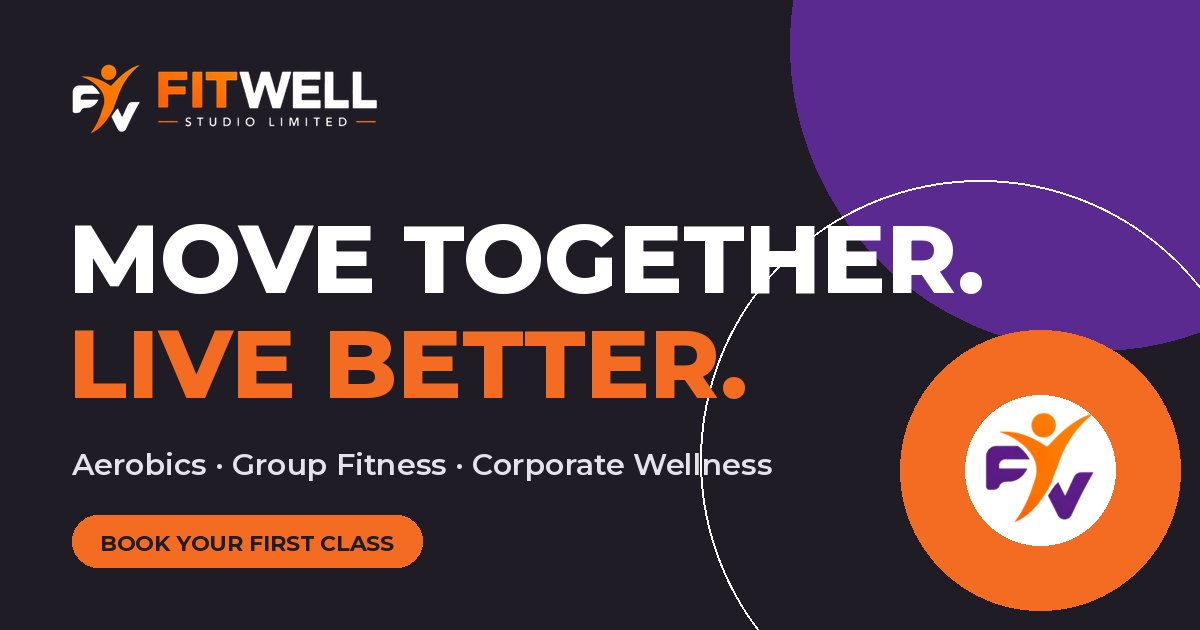
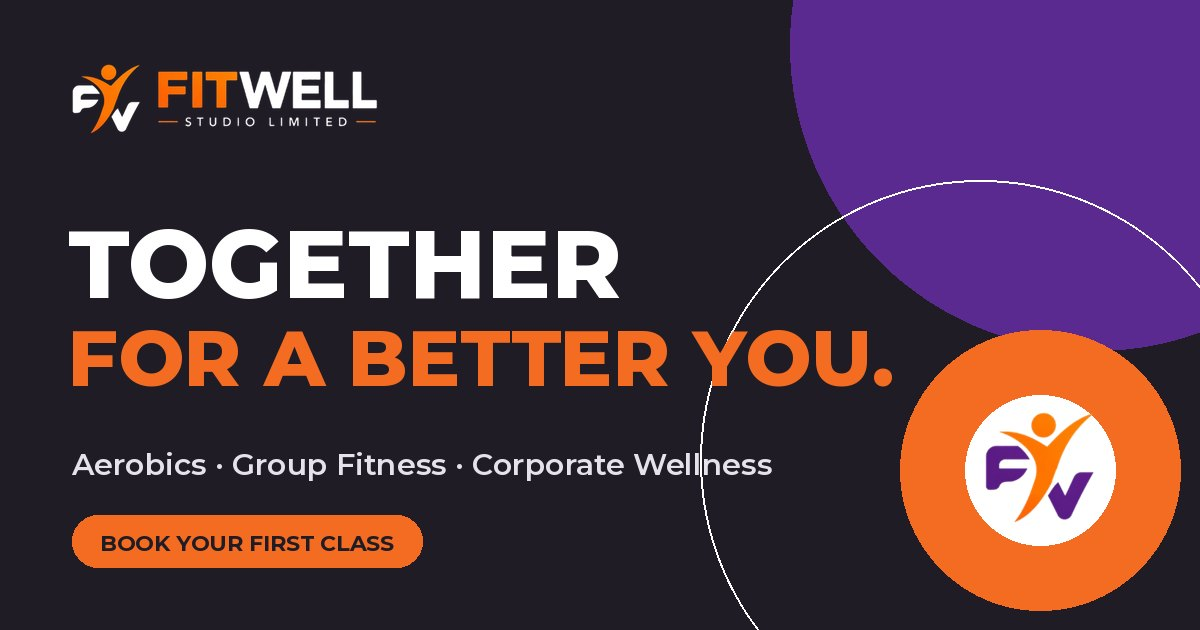
Images Update

Changed region(s): [[0.0308, 0.3317, 0.8325, 0.4825], [0.0617, 0.5127, 0.74, 0.6333]]

diff --git a/assets/css/fitwell.css b/assets/css/fitwell.css
@@ -1,6 +1,6 @@
 /* ==========================================================================
    FITWELL STUDIO LIMITED — Design System
-   Move Together. Live Better.
+   Together for a Better You.
    ========================================================================== */
 
 /* ---------- 1. Tokens ---------- */

diff --git a/index.php b/index.php
@@ -17,7 +17,7 @@ require APP_DIR . '/partials/header.php';
   <div class="container hero__inner">
     <div class="hero-anim">
       <p class="eyebrow">Aerobics · Group Fitness · Corporate Wellness</p>
-      <h1 class="display hero__title" id="hero-title"><span>Move better.</span><span class="accent">Live better.</span></h1>
+      <h1 class="display hero__title" id="hero-title"><span>Together</span><span class="accent">for a Better You.</span></h1>
       <p class="hero__sub">Find your rhythm. Build your strength. Discover your community.</p>
       <p class="hero__text">Experience energising aerobics and group fitness sessions designed to bring people together through movement, consistency and wellbeing.</p>
       <div class="btn-row">
@@ -51,7 +51,7 @@ require APP_DIR . '/partials/header.php';
   <div class="ticker__track">
     <?php for ($g = 0; $g < 2; $g++): ?>
       <div class="ticker__group">
-        <?php foreach (['Aerobics', 'Dance Fitness', 'Group Fitness', 'Corporate Wellness', 'Move Together', 'Live Better'] as $word): ?>
+        <?php foreach (['Aerobics', 'Dance Fitness', 'Group Fitness', 'Corporate Wellness', 'Together for a Better You'] as $word): ?>
           <span class="ticker__item"><?= e($word) ?><span class="ticker__dot"></span></span>
         <?php endforeach; ?>
       </div>
@@ -74,7 +74,7 @@ require APP_DIR . '/partials/header.php';
         <figure data-reveal="img"><?= img('kneeling', '(min-width: 900px) 26vw, 55vw', [], 0.75, 1200) ?></figure>
         <figure data-reveal="img" style="--d:.15s"><?= img('pair', '(min-width: 900px) 22vw, 45vw', [], 0.71, 1200) ?></figure>
         <div class="intro__badge" aria-hidden="true">
-          <svg viewBox="0 0 120 120"><defs><path id="circ" d="M60,60 m-46,0 a46,46 0 1,1 92,0 a46,46 0 1,1 -92,0"/></defs><text font-family="Montserrat" font-weight="700" font-size="10.5" letter-spacing="3.2" fill="#201C26"><textPath href="#circ">MOVE TOGETHER · LIVE BETTER · </textPath></text></svg>
+          <svg viewBox="0 0 120 120"><defs><path id="circ" d="M60,60 m-46,0 a46,46 0 1,1 92,0 a46,46 0 1,1 -92,0"/></defs><text font-family="Montserrat" font-weight="700" font-size="10.5" letter-spacing="3.2" fill="#201C26"><textPath href="#circ">TOGETHER FOR A BETTER YOU · </textPath></text></svg>
           <img src="<?= asset('img/logo-mark.png') ?>" alt="" width="44" height="44" style="width:44px;height:auto">
         </div>
       </div>

diff --git a/app/images.php b/app/images.php
@@ -8,7 +8,7 @@
  * brand-gradient placeholder instead. class-* keys are used by the sample classes.
  */
 return [
-    'highfive'    => ['src' => '../new-images/lady pink vest.jpeg', 'alt' => 'A group of friends laughing and hugging together', 'credit' => 'Kaeme / Unsplash'],
+    'highfive'    => ['src' => '../new-images/lady pink vest.jpg', 'alt' => 'A group of friends laughing and hugging together', 'credit' => 'Kaeme / Unsplash'],
     'kneeling'    => ['src' => '../new-images/lady push up.jpeg', 'alt' => 'Three women smiling together on the studio floor between exercises', 'credit' => 'bruce mars / Unsplash'],
     'pair'        => ['src' => 'unsplash:1628970937415-72e1677309c6', 'alt' => 'Two women in sportswear smiling and flexing together', 'credit' => 'April Laugh / Unsplash'],
     'class-aerobics' => ['src' => 'unsplash:1635863807845-add1be925a2f', 'alt' => 'A smiling woman holding two orange kettlebells overhead', 'credit' => 'April Laugh / Unsplash'],
@@ -16,7 +16,7 @@ return [
     'class-group'    => ['src' => '../new-images/black lady leg ball.jpeg', 'alt' => 'Four women in colourful workout sets standing together', 'credit' => 'April Laugh / Unsplash'],
     'hi5'=> ['src' => '../new-images/hi-5.jpeg', 'alt' => 'Three people stretching together outdoors before a workout', 'credit' => 'Sweet Life / Unsplash'],
     'class-special'  => ['src' => 'unsplash:1771402900038-785d2b4c39b0', 'alt' => 'A cheerful group of people at a fitness event', 'credit' => 'Ben Iwara / Unsplash'],
-    'corporate-outdoor' => ['src' => '../new-images/energy dance.png', 'alt' => 'Team sessions'],
+    'corporate-outdoor' => ['src' => '../new-images/energy dance.jpg', 'alt' => 'Team sessions'],
     'coach'       => ['src' => '../new-images/green shirt.jpeg', 'alt' => 'Fitwell instructors'],
 
 

diff --git a/app/config.php b/app/config.php
@@ -29,7 +29,7 @@ return [
     'seo' => [
         'site_name'   => 'Fitwell Studio',
         'locale'      => 'en_GB',
-        'default_description' => 'Fitwell Studio — energising aerobics, dance fitness and group classes for every level, plus corporate wellness for teams. Book your first class online. Move Together. Live Better.',
+        'default_description' => 'Fitwell Studio — energising aerobics, dance fitness and group classes for every level, plus corporate wellness for teams. Book your first class online. Together for a Better You.',
         'twitter'     => null,  // e.g. '@fitwellstudio'
     ],
 
@@ -43,7 +43,7 @@ return [
     'company' => [
         'legal_name' => 'FITWELL STUDIO LIMITED',
         'short_name' => 'Fitwell',
-        'slogan'     => 'Move Together. Live Better.',
+        'slogan'     => 'Together for a Better You.',
         'email'      => null,   // e.g. 'hello@yourdomain.com'
         'phone'      => null,   // e.g. '+260 ...'
         'address'    => null,   // studio street address

diff --git a/app/partials/header.php b/app/partials/header.php
@@ -32,7 +32,7 @@ $flashes = take_flashes();
   }
   $canonicalUrl = abs_url(url($canonical));
   $ogImage = $ogImage ?? share_image();
-  $ogImageAlt = $ogImageAlt ?? 'Fitwell Studio — Move Together. Live Better.';
+  $ogImageAlt = $ogImageAlt ?? 'Fitwell Studio — Together for a Better You.';
   $noindex = !empty($noindex) || strpos(str_replace('\\', '/', $_SERVER['SCRIPT_NAME'] ?? ''), '/admin/') !== false;
 ?>
 <title><?= e($fullTitle) ?></title>
@@ -123,7 +123,7 @@ $flashes = take_flashes();
       <a class="btn btn--ghost btn--block" href="<?= url('login.php') ?>">Member Login</a>
     <?php endif; ?>
     <?php if (whatsapp_url()): ?><a class="btn btn--whatsapp btn--block" href="<?= e(whatsapp_url()) ?>" target="_blank" rel="noopener"><?= whatsapp_icon() ?> Chat on WhatsApp</a><?php endif; ?>
-    <p class="mobile-menu__slogan">Move Together. Live Better.</p>
+    <p class="mobile-menu__slogan">Together for a Better You.</p>
   </div>
 </div>
 

diff --git a/app/partials/footer.php b/app/partials/footer.php
@@ -7,7 +7,7 @@
       <div class="site-footer__brand">
         <img src="<?= asset('img/logo-horizontal.png') ?>" alt="Fitwell Studio Limited" width="220" height="50" loading="lazy">
         <p class="site-footer__statement">Energising aerobics and group fitness for everyone — and wellbeing programmes that bring teams together.</p>
-        <p class="site-footer__slogan">Move Together. <span>Live Better.</span></p>
+        <p class="site-footer__slogan">Together <span>for a Better You.</span></p>
       </div>
 
       <div class="site-footer__cols">

diff --git a/about.php b/about.php
@@ -13,7 +13,7 @@ require APP_DIR . '/partials/header.php';
     <div class="page-hero__grid">
       <div class="hero-anim">
         <p class="eyebrow">About Fitwell</p>
-        <h1 class="h1">Move together.<br><span class="accent">Live better.</span></h1>
+        <h1 class="h1">Together<br><span class="accent">for a Better You.</span></h1>
       </div>
       <p class="lead hero-anim">Fitwell Studio exists for one simple reason: people feel better when they move — and even better when they move together.</p>
     </div>

diff --git a/app/components.php b/app/components.php
@@ -119,7 +119,7 @@ function structured_data(string $canonical, string $title, array $extra = []): a
             '@id'      => $home . '#business',
             'name'     => 'FITWELL STUDIO LIMITED',
             'alternateName' => 'Fitwell Studio',
-            'slogan'   => 'Move Together. Live Better.',
+            'slogan'   => 'Together for a Better You.',
             'description' => cfg('seo.default_description'),
             'url'      => $home,
             'logo'     => abs_url(asset('img/logo-mark.png')),

diff --git a/README.md b/README.md
@@ -1,6 +1,6 @@
 # FITWELL STUDIO LIMITED — website
 
-*Move Together. Live Better.*
+*Together for a Better You.*
 
 This is a PHP and MySQL site that runs directly from XAMPP. It needs no Composer, no build step and no framework.
 
